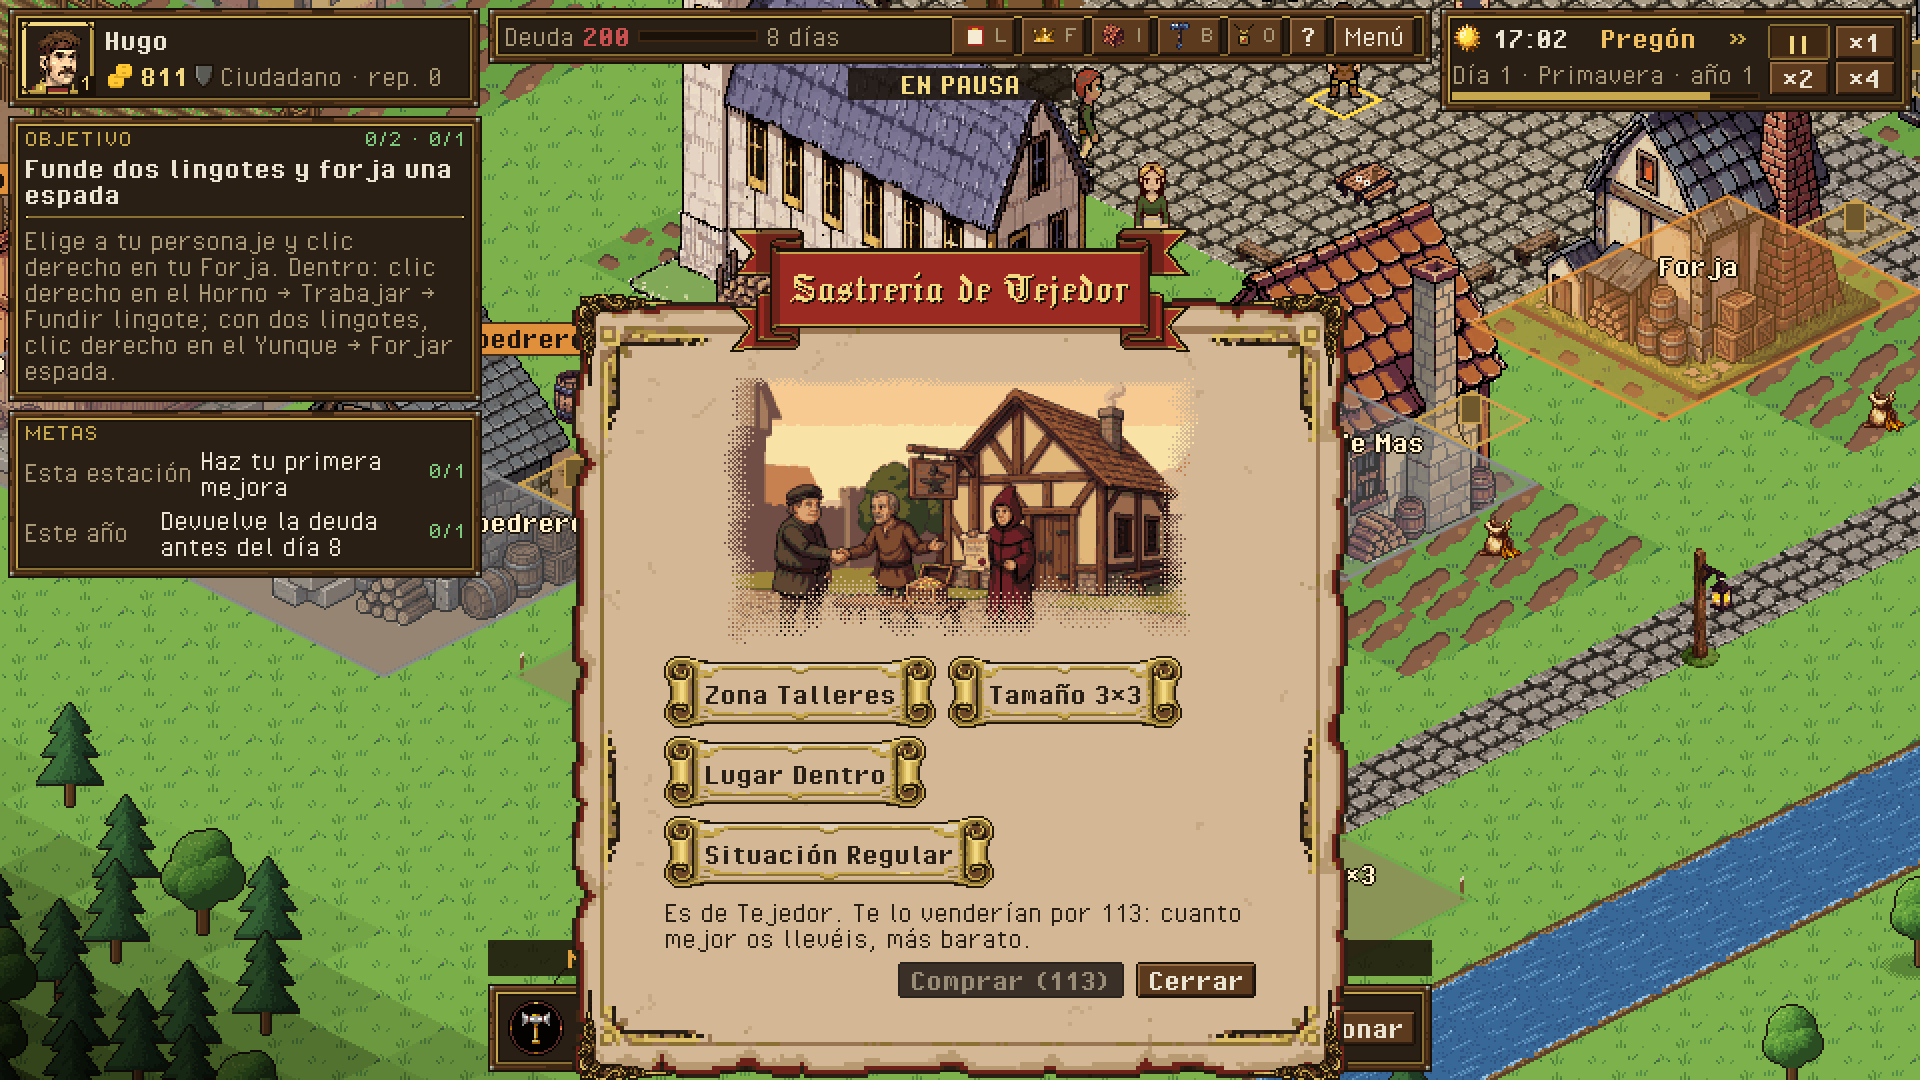
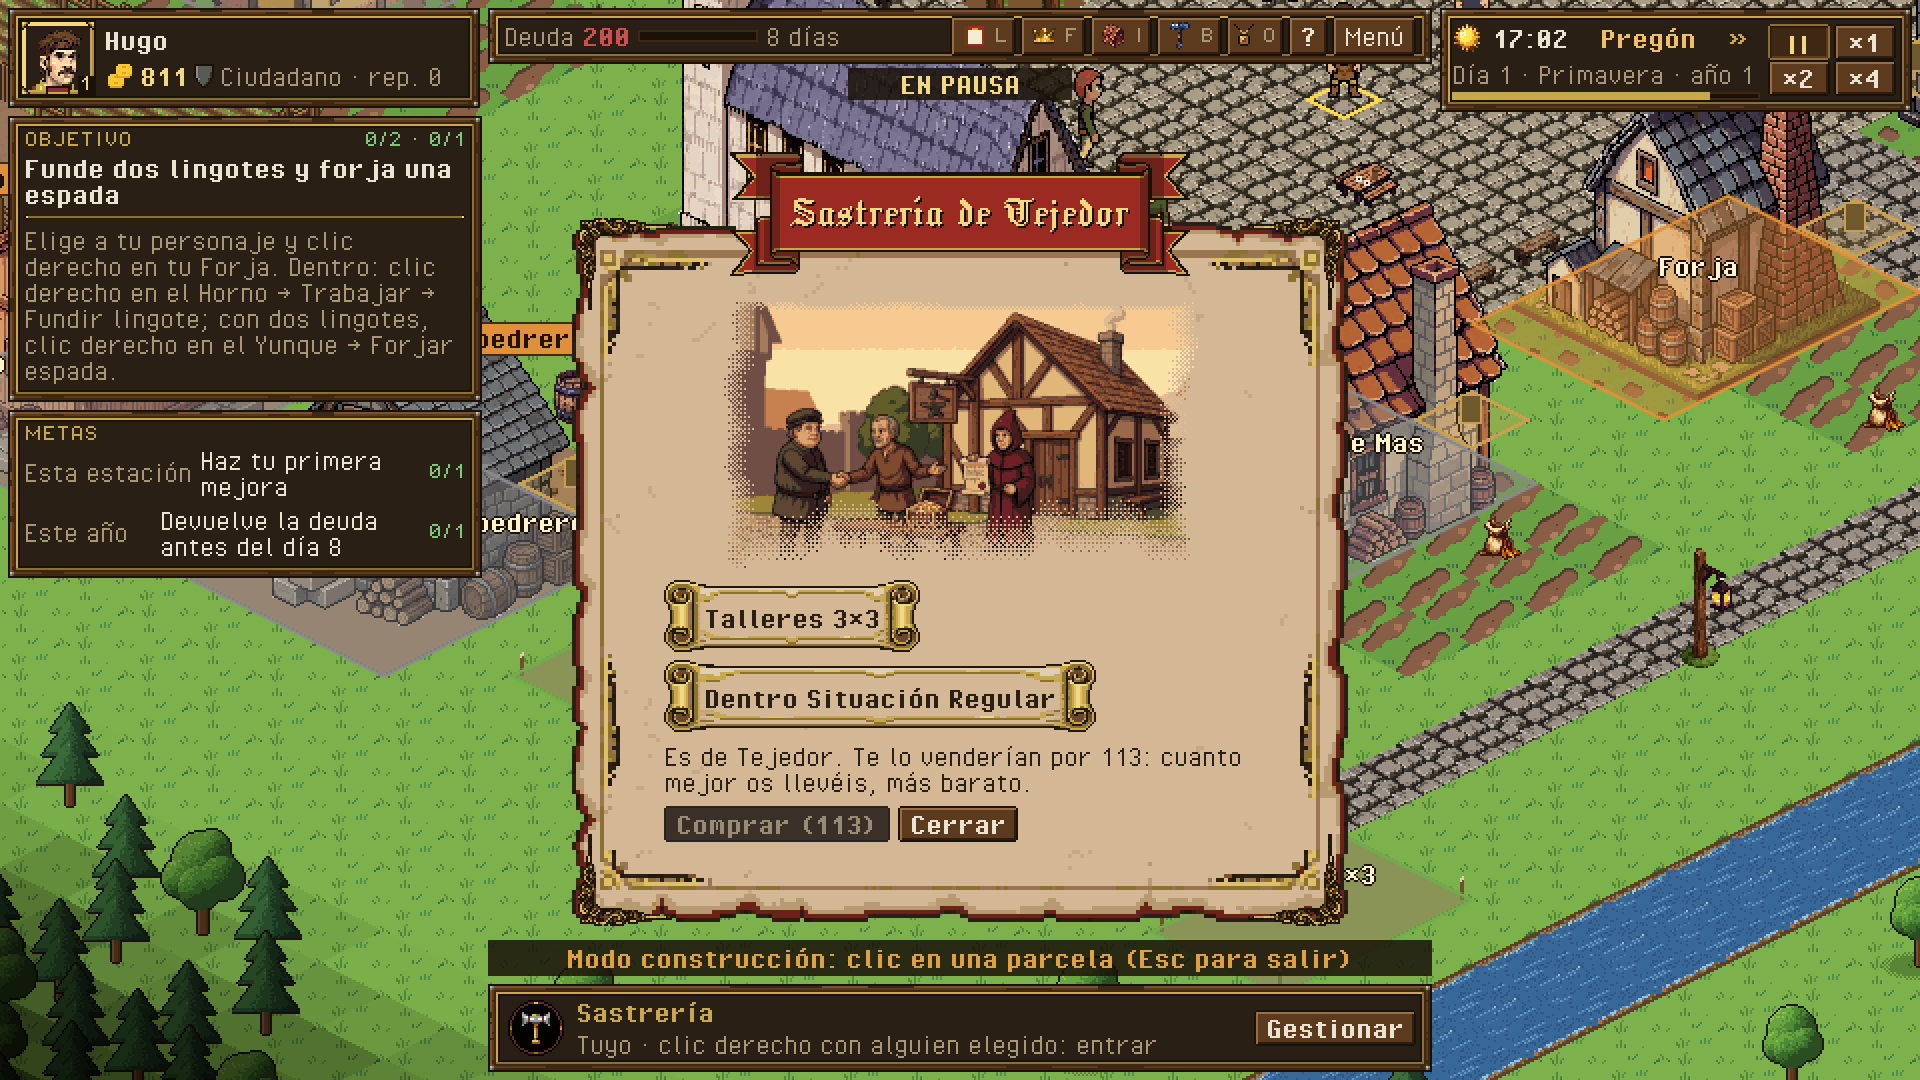
H6: Vilarrasa's workshop lot; the AI's expansion waits for its economy; the plot card fits
- tools/maps/make_town_e.py: plot_21, a free production lot of 3x4 (a forge, carpentry, masonry or a second
  tavern, O-V12) on the grass north of the top lane, entered at (10, 6); town_e_start does not change.
- Construction: a second building of an AI family waits for data/construction.json ai.expand (off: today's AI does
  not hire nor queue in a second building; on, the rival smith builds a second forge on day 21, seed 1, and ends
  day 60 with 2 gold instead of 407); the expected profit counts the wage of who works it. Contract in 04c 4.21.6.2.
- PlotCard: two figures, short choices that wrap two by row (PageCard wrap_buttons), no picture with many choices,
  centred again once its buttons know their height; the capture of the 3x4 lot.

Changed region(s): [[0.2812, 0.1222, 0.7188, 1.0]]

diff --git a/tools/maps/make_town_e.py b/tools/maps/make_town_e.py
@@ -248,6 +248,25 @@ citylib.add_life(town, citylib.Catalog())
 # The plots of 04 §4.9.1 (tools/city/plots.py): data the sim never reads (the targets do not move), drawn by the view.
 import plots  # noqa: E402
 plots.add_plots(town, citylib.Catalog())
+
+
+def _workshop_lot(d, cat):
+    """H6 (04 §4.9; the manager, 2026-11-06): a free production plot of a workshop's footprint (3x4: forge, carpentry,
+    masonry, tavern) on the grass north of the top lane, cols 9-11 x rows 2-5, entered from the lane at (10, 6): no
+    meeting point, patrol, tree, fair ground or pen there, and grass the townsfolk's routes leave (walk cost 10). With
+    the ruin and the 3x2 lot it makes 3 free production plots, one over the valve of 2: an AI family can take one.
+    Its side and situation come from plots.py, like the others'."""
+    m = citylib.Map(d, cat)
+    sit = plots.Situation(m)
+    sides = plots.Sides(m, sit.plaza)
+    rect, front = (9, 2, 3, 4), (10, 6)
+    n = len(d["plots"]) + 1
+    d["plots"].append({"id": "plot_%02d" % n, "state": "lot", "side": sides.side_of(rect, front), "zone": "production",
+                       "origin": [rect[0], rect[1]], "size": [rect[2], rect[3]], "front": list(front),
+                       "location": sit.of(front)})
+
+
+_workshop_lot(town, citylib.Catalog())
 _emit("data/maps/town_e.json", citylib.dumps_map(town))
 
 def inv(limit_kind, limit, stacks=None):

diff --git a/docs/gdd/04c_ia_rival.md b/docs/gdd/04c_ia_rival.md
@@ -234,6 +234,23 @@ Cada módulo es un fichero en `sim/ai/modules/` con dos funciones: `propose(view
 
 **Elección de parcela:** cercanía a su casa y al mercado; las 3 mejor valoradas son las candidatas. La IA no sabe qué parcela «quiere» el jugador (4.21.4): si coincide, es competencia normal y no cuenta como ataque (salvo la acción hostil de 4.21.9).
 
+**Contrato del módulo (H6, construido en la rama posada, 2026-11-06; `sim/build/construction.gd`, fuera de `sim/ai`)**:
+
+- `Construction.candidates(sim: Sim, fam: String) -> Array`: lo que la familia podría hacer hoy, la mejor primero:
+  `{kind: "build" | "buy", plot (build), building (buy), building_type, price, daily, score}`. `build`: las 3 parcelas
+  libres de producción mejor situadas donde cabe un taller de sus oficios (el que tiene, los de su perfil
+  `preferred_professions` y, si vendió el suyo, el que vendió); `buy`: un edificio sin dueño en venta de sus oficios.
+  Ya filtra el tope por título y la válvula (`Plots.can_build`). `daily` = mejor margen de sus recetas ×
+  `units_per_day` / (1 + talleres del mismo tipo) − mantenimiento; `score` = `daily × horizon_days × expansión` /
+  `price`.
+- `Construction.choose(sim, fam) -> Dictionary`: la mejor candidata que paga su oro por encima de la reserva
+  (`Construction.budget`: oro − `gold_reserve` − `reserve_days` × coste fijo diario) y pasa `min_score`; una familia que
+  vendió su taller y monta otro (`after_sale.fate` rebuilds) toma la mejor que pague. `{}` si ninguna.
+- `Construction.order_for(sim, fam, cand) -> Dictionary`: la orden de gestión del cabeza (`build` o `buy_building`).
+- Mientras la agenda de `sim/ai` no lo llame, `Construction.step` lo hace al amanecer (`ai_orders`: desde
+  `first_day`, `cooldown_days` por familia, `max_per_day` en el pueblo). Cuando la agenda lo llame, pone
+  `data/construction.json` `ai.enabled` a false y este paso se calla.
+
 #### 4.21.6.3 Quiebra (H6)
 
 Se evalúa al amanecer. Un negocio con **neto negativo en el libro durante 2 años** y la familia en austeridad sigue estos pasos [balance]:

diff --git a/docs/gdd/04_diseno_de_juego.md b/docs/gdd/04_diseno_de_juego.md
@@ -671,7 +671,11 @@ tamaño, lugar (dentro o extramuros) y situación, y lo que se puede hacer con s
   pase de 1 y pague con su oro por encima de su reserva. Una familia que vendió su taller toma la mejor que pueda pagar.
   Las órdenes (`build`, `buy_building`) son de gestión, como las del jugador. `data/construction.json` `ai.enabled`
   apaga este paso cuando la agenda de 04c (sim/ai) lo llame por su cuenta (`Construction.candidates` / `choose` /
-  `order_for`).
+  `order_for`, contrato en 04c §4.21.6.2). Un **segundo** edificio (con su taller en pie) espera a `ai.expand`, apagado
+  hasta que la economía de sim/ai sepa llevarlo (contratar, cola, vender de su almacén): hoy una forja nueva de la IA
+  se queda vacía y la arruina. Sin él, solo monta taller la familia que vendió el suyo.
+- **Vilarrasa (town_e)** trae un solar de taller (plot_21, 3×4, extramuros al norte del callejón de arriba; lo pone
+  `tools/maps/make_town_e.py`): cabe una forja, una carpintería, una albañilería o una segunda taberna (O-V12).
 - **Rústica**: las parcelas rústicas se ven en el modo, pero todavía no hay edificios que levantar en ellas (granjas,
   minas, aserraderos: 4.22).
 
